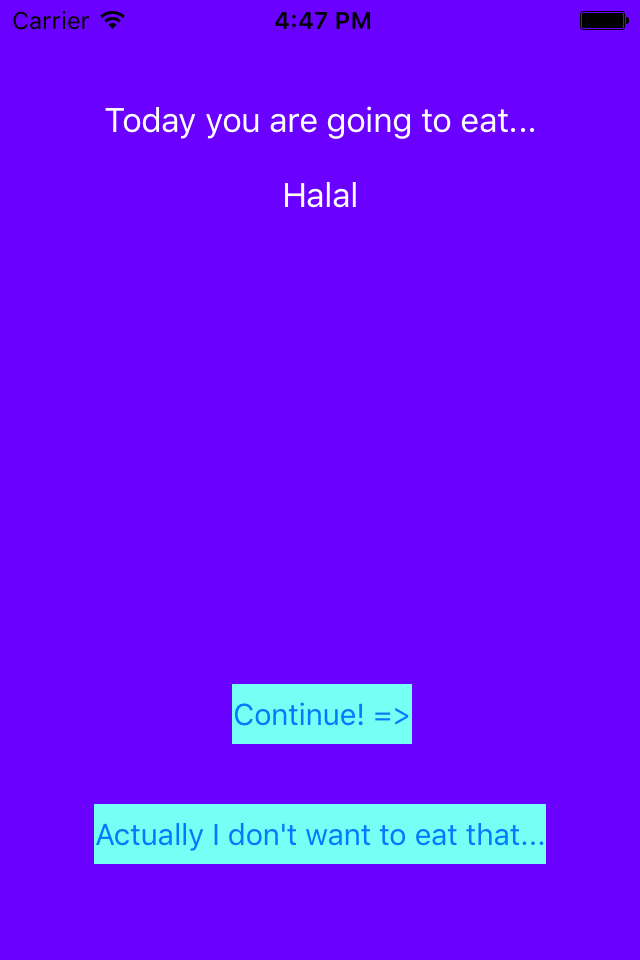
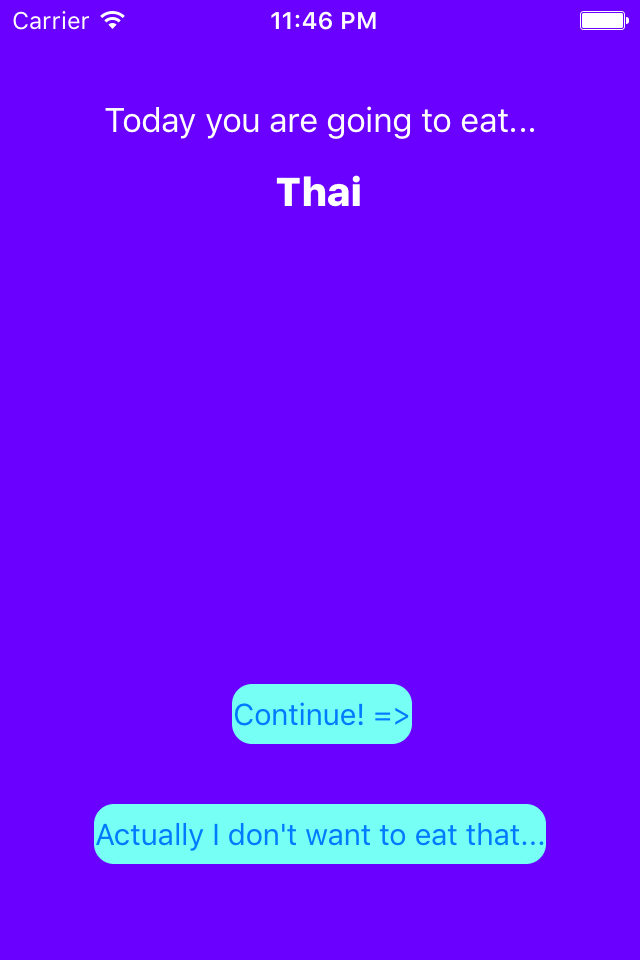
changed bundle ID

diff --git a/Restaurando/ResultsViewController.swift b/Restaurando/ResultsViewController.swift
@@ -15,11 +15,12 @@ class ResultsViewController: UIViewController {
     
     
     @IBOutlet weak var resultsLabel: UILabel!
+    @IBOutlet weak var chooseAgainButton: UIButton!
     
     override func viewDidLoad() {
         super.viewDidLoad()
         // Do any additional setup after loading the view, typically from a nib.
-        
+        chooseAgainButton.layer.cornerRadius = 10
         //Authenticate API Keys
         let client = YLPClient(consumerKey: "hC6Q3AMvXrmnaithktTNcg",
                                consumerSecret: "Vn8UMrw1TWWKfZyQXYAc6JX8rF4",

diff --git a/Restaurando/View Controllers/RandomSelector.swift b/Restaurando/View Controllers/RandomSelector.swift
@@ -11,9 +11,15 @@ import UIKit
 class RandomSelector: UIViewController {
  
     @IBOutlet weak var randomLabel: UILabel!
+    @IBOutlet weak var continueButton: UIButton!
+    @IBOutlet weak var changeMyMindButton: UIButton!
     
     override func viewDidLoad() {
         super.viewDidLoad()
+        
+        continueButton.layer.cornerRadius = 10
+        changeMyMindButton.layer.cornerRadius = 10
+        
         let randomRestaurant = RestaurantTypes(type: "Title is Me!!")
         randomLabel.text = randomRestaurant.getTypeRest()
     }

diff --git a/Restaurando/View Controllers/LocationViewController.swift b/Restaurando/View Controllers/LocationViewController.swift
@@ -13,10 +13,13 @@ class LocationViewController: UIViewController {
     
     @IBOutlet weak var cityTextField: UITextField!
     @IBOutlet weak var stateTextField: UITextField!
+    @IBOutlet weak var continueOnButton: UIButton!
+    
     var setLocSearchTerm = ""
     override func viewDidLoad() {
         super.viewDidLoad()
             self.hideKeyboardWhenTappedAround()
+        continueOnButton.layer.cornerRadius = 10
         }
         // Do any additional setup after loading the view.
 

diff --git a/Restaurando/AppDelegate.swift b/Restaurando/AppDelegate.swift
@@ -16,6 +16,7 @@ class AppDelegate: UIResponder, UIApplicationDelegate {
 
     func application(application: UIApplication, didFinishLaunchingWithOptions launchOptions: [NSObject: AnyObject]?) -> Bool {
         // Override point for customization after application launch.
+        UIApplication.sharedApplication().statusBarStyle = .LightContent
         return true
     }
 

diff --git a/Restaurando/View Controllers/WelcomeViewController.swift b/Restaurando/View Controllers/WelcomeViewController.swift
@@ -10,8 +10,12 @@ import UIKit
 
 class WelcomeViewController: UIViewController {
 
+    @IBOutlet weak var goButton: UIButton!
+    
     override func viewDidLoad() {
         super.viewDidLoad()
+        
+        goButton.layer.cornerRadius = 10
 
         // Do any additional setup after loading the view.
     }
